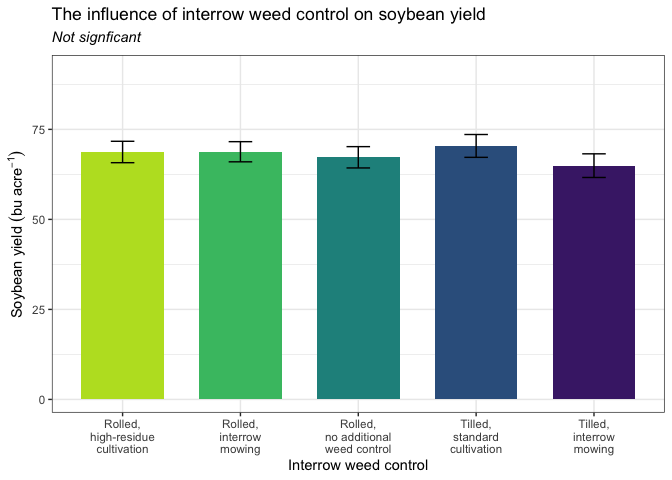
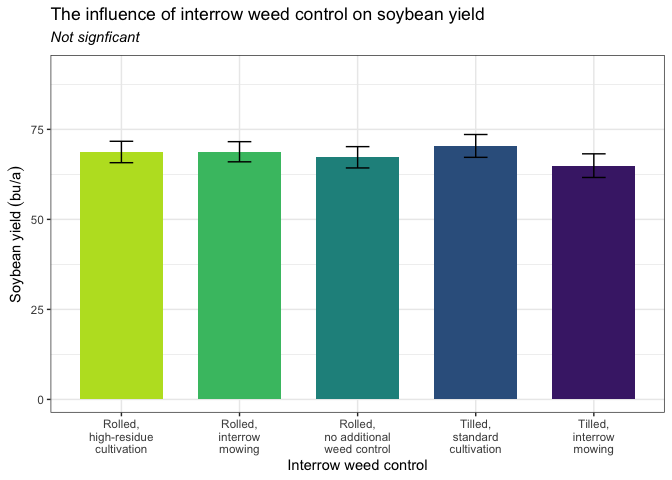
knitted

diff --git a/rmarkdowns/bean_yield.md b/rmarkdowns/bean_yield.md
@@ -50,14 +50,14 @@ combined_raw <- read_excel("~/Github/Mowtivation/raw-data/All Treatments/combine
 kable(head(combined_raw))
 ```
 
-| id | location | year | treatment | block | plot | bean_emergence | bean_biomass | intrarow_weed_biomass | interrow_weed_biomass | weed_biomass | bean_population | bean_yield |
-|:---|:---|---:|:---|---:|---:|---:|---:|---:|---:|---:|:---|:---|
-| CU_B1_P101 | field x | 2023 | TIM | 1 | 101 | 46.5 | 223.740 | 19.000 | 44.490 | 63.490 | 34.5 | 417.21 |
-| CU_B1_P102 | field x | 2023 | TIC | 1 | 102 | 42.5 | 267.460 | 30.975 | 0.720 | 31.695 | 39.5 | 565.54 |
-| CU_B1_P103 | field x | 2023 | RIM | 1 | 103 | 36.5 | 217.890 | 0.950 | 6.890 | 3.920 | 37.5 | 449.93 |
-| CU_B1_P104 | field x | 2023 | RNO | 1 | 104 | 41.0 | 207.675 | 0.660 | 45.735 | 46.395 | 35 | 412.59 |
-| CU_B1_P105 | field x | 2023 | RIC | 1 | 105 | 41.0 | 230.285 | 0.495 | 22.025 | 22.520 | 39 | 473.79 |
-| CU_B1_P201 | field x | 2023 | RIC | 2 | 201 | 36.5 | 208.105 | 6.395 | 19.460 | 25.855 | 33.5 | 484.04 |
+| id | location | year | treatment | block | plot | bean_emergence | bean_biomass | intrarow_weed_biomass | interrow_weed_biomass | weed_biomass | bean_population | bean_yield | seed_weight |
+|:---|:---|---:|:---|---:|---:|---:|---:|---:|---:|---:|:---|:---|:---|
+| CU_B1_P101 | field x | 2023 | TIM | 1 | 101 | 46.5 | 223.740 | 19.000 | 44.490 | 63.490 | 34.5 | 417.21 | 17.119999999999997 |
+| CU_B1_P102 | field x | 2023 | TIC | 1 | 102 | 42.5 | 267.460 | 30.975 | 0.720 | 31.695 | 39.5 | 565.54 | 17.475000000000001 |
+| CU_B1_P103 | field x | 2023 | RIM | 1 | 103 | 36.5 | 217.890 | 0.950 | 6.890 | 3.920 | 37.5 | 449.93 | 16.752499999999998 |
+| CU_B1_P104 | field x | 2023 | RNO | 1 | 104 | 41.0 | 207.675 | 0.660 | 45.735 | 46.395 | 35 | 412.59 | 16.145 |
+| CU_B1_P105 | field x | 2023 | RIC | 1 | 105 | 41.0 | 230.285 | 0.495 | 22.025 | 22.520 | 39 | 473.79 | 17.047499999999999 |
+| CU_B1_P201 | field x | 2023 | RIC | 2 | 201 | 36.5 | 208.105 | 6.395 | 19.460 | 25.855 | 33.5 | 484.04 | 17.149999999999999 |
 
 <br>
 
@@ -92,18 +92,20 @@ clean_combined <- clean_names(combined_raw) |>
 kable(head(bean_yield_clean)) 
 ```
 
-| id | location | year | weed_control | block | plot | bean_emergence | bean_biomass | intrarow_weed_biomass | interrow_weed_biomass | weed_biomass | bean_population | bean_yield | bean_yield_adj_bu_acre | bean_yield_adj_lbs_acre | bean_yield_adj_kg_ha |
-|:---|:---|:---|:---|:---|:---|---:|---:|---:|---:|---:|:---|---:|---:|---:|---:|
-| CU_B1_P101 | field x | 2023 | TIM | 1 | 101 | 46.5 | 223.740 | 19.000 | 44.490 | 63.490 | 34.5 | 417.21 | 47.30348 | 2838.209 | 3181.207 |
-| CU_B1_P102 | field x | 2023 | TIC | 1 | 102 | 42.5 | 267.460 | 30.975 | 0.720 | 31.695 | 39.5 | 565.54 | 64.12122 | 3847.273 | 4312.216 |
-| CU_B1_P103 | field x | 2023 | RIM | 1 | 103 | 36.5 | 217.890 | 0.950 | 6.890 | 3.920 | 37.5 | 449.93 | 51.01330 | 3060.798 | 3430.695 |
-| CU_B1_P104 | field x | 2023 | RNO | 1 | 104 | 41.0 | 207.675 | 0.660 | 45.735 | 46.395 | 35 | 412.59 | 46.77967 | 2806.780 | 3145.979 |
-| CU_B1_P105 | field x | 2023 | RIC | 1 | 105 | 41.0 | 230.285 | 0.495 | 22.025 | 22.520 | 39 | 473.79 | 53.71855 | 3223.113 | 3612.626 |
-| CU_B1_P201 | field x | 2023 | RIC | 2 | 201 | 36.5 | 208.105 | 6.395 | 19.460 | 25.855 | 33.5 | 484.04 | 54.88070 | 3292.842 | 3690.782 |
+| id | location | year | weed_control | block | plot | bean_emergence | bean_biomass | intrarow_weed_biomass | interrow_weed_biomass | weed_biomass | bean_population | bean_yield | seed_weight | bean_yield_adj_bu_acre | bean_yield_adj_lbs_acre | bean_yield_adj_kg_ha |
+|:---|:---|:---|:---|:---|:---|---:|---:|---:|---:|---:|:---|---:|:---|---:|---:|---:|
+| CU_B1_P101 | field x | 2023 | TIM | 1 | 101 | 46.5 | 223.740 | 19.000 | 44.490 | 63.490 | 34.5 | 417.21 | 17.119999999999997 | 47.30348 | 2838.209 | 3181.207 |
+| CU_B1_P102 | field x | 2023 | TIC | 1 | 102 | 42.5 | 267.460 | 30.975 | 0.720 | 31.695 | 39.5 | 565.54 | 17.475000000000001 | 64.12122 | 3847.273 | 4312.216 |
+| CU_B1_P103 | field x | 2023 | RIM | 1 | 103 | 36.5 | 217.890 | 0.950 | 6.890 | 3.920 | 37.5 | 449.93 | 16.752499999999998 | 51.01330 | 3060.798 | 3430.695 |
+| CU_B1_P104 | field x | 2023 | RNO | 1 | 104 | 41.0 | 207.675 | 0.660 | 45.735 | 46.395 | 35 | 412.59 | 16.145 | 46.77967 | 2806.780 | 3145.979 |
+| CU_B1_P105 | field x | 2023 | RIC | 1 | 105 | 41.0 | 230.285 | 0.495 | 22.025 | 22.520 | 39 | 473.79 | 17.047499999999999 | 53.71855 | 3223.113 | 3612.626 |
+| CU_B1_P201 | field x | 2023 | RIC | 2 | 201 | 36.5 | 208.105 | 6.395 | 19.460 | 25.855 | 33.5 | 484.04 | 17.149999999999999 | 54.88070 | 3292.842 | 3690.782 |
 
 <br>
 
 # Model testing
+
+## Lmer
 
 Block is random Tyler is under the impression that block should always
 be random and that post-hoc comparisons should use TUKEY rather the
@@ -141,8 +143,6 @@ resid_panel(random)
 
 ``` r
 means_weed_control <- emmeans(random, ~  weed_control)
-# Optional: Adjust for multiple comparisons (e.g., using Tukey's method)
-
 pairwise_comparisons_weed_control<- pairs(means_weed_control) 
 kable(head(pairwise_comparisons_weed_control))
 ```
@@ -271,7 +271,7 @@ cld_weed_control_location_tukey
     ##       then we cannot show them to be different.
     ##       But we also did not show them to be the same.
 
-<br> \# FIGURES
+<br> \# Figures
 
 ## Weed-control (NS)
 
@@ -284,7 +284,7 @@ bean_yield_clean |>
   #stat_summary(geom="text", fun = "MeanPlusSe", aes(label= trimws(.group)),size=6.5,vjust=-0.5) +
   labs(
     x = "Interrow weed control",
-    y = expression("Soybean yield" ~ (bu ~ acre^{-1})),
+    y = expression("Soybean yield" ~ (bu * "/" * a)),
     title = str_c("The influence of interrow weed control on soybean yield"),
     subtitle = expression(italic("Not signficant"))) +
   
@@ -303,17 +303,11 @@ bean_yield_clean |>
   )
 ```
 
-    ## Warning: Removed 1 row containing non-finite outside the scale range (`stat_summary()`).
-    ## Removed 1 row containing non-finite outside the scale range (`stat_summary()`).
-
 ![](bean_yield_files/figure-gfm/unnamed-chunk-11-1.png)<!-- -->
 
 ``` r
-ggsave("bean_yield_weed_control_buA.png", width = 8, height = 6, dpi = 300)
+ggsave("bean_yield_weed_control_bua.png", width = 8, height = 6, dpi = 300)
 ```
-
-    ## Warning: Removed 1 row containing non-finite outside the scale range (`stat_summary()`).
-    ## Removed 1 row containing non-finite outside the scale range (`stat_summary()`).
 
 ## Location (S)
 
@@ -326,7 +320,7 @@ bean_yield_clean |>
   stat_summary(geom="text", fun = "MeanPlusSe", aes(label= trimws(.group)),size=6.5,vjust=-0.5) +
   labs(
     x = "Location",
-    y = expression("Soybean yield" ~ (bu ~ A^{-1})),
+    y = expression("Soybean yield" ~ (bu * "/" * a)),
     title = str_c("The influence of location on soybean yield"),
     subtitle = expression(italic("P < 0.005"))) +
    scale_x_discrete(labels = c("Field O2 East ",
@@ -345,5 +339,5 @@ bean_yield_clean |>
 ![](bean_yield_files/figure-gfm/unnamed-chunk-12-1.png)<!-- -->
 
 ``` r
-ggsave("bean_yield_location_buA.png", width = 8, height = 6, dpi = 300)
+ggsave("bean_yield_location_bua.png", width = 8, height = 6, dpi = 300)
 ```
